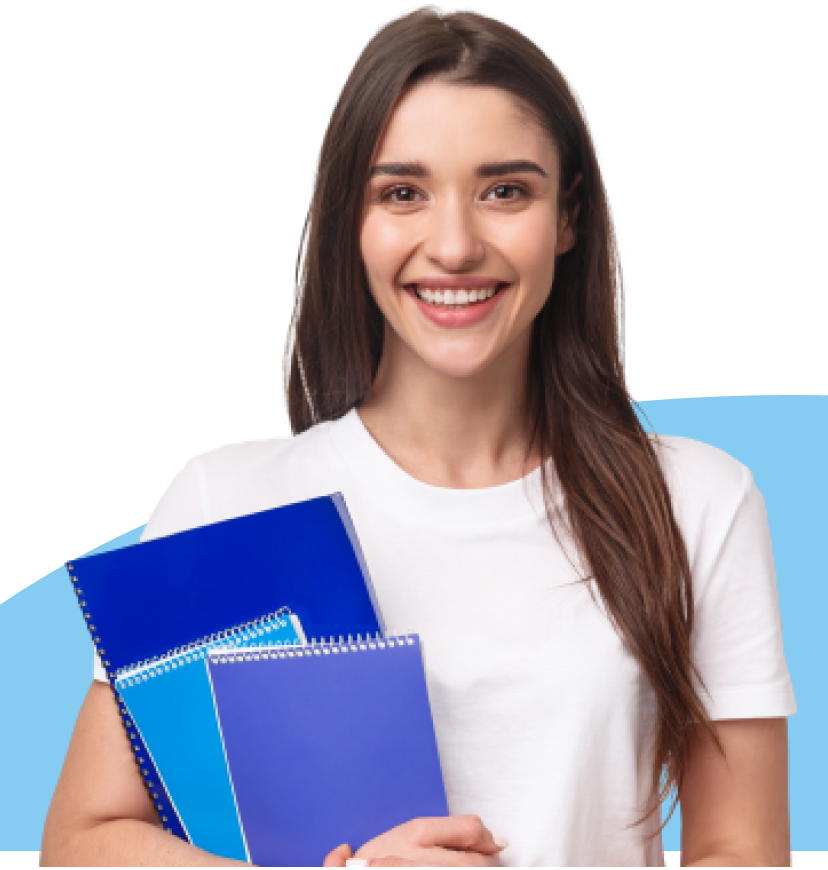
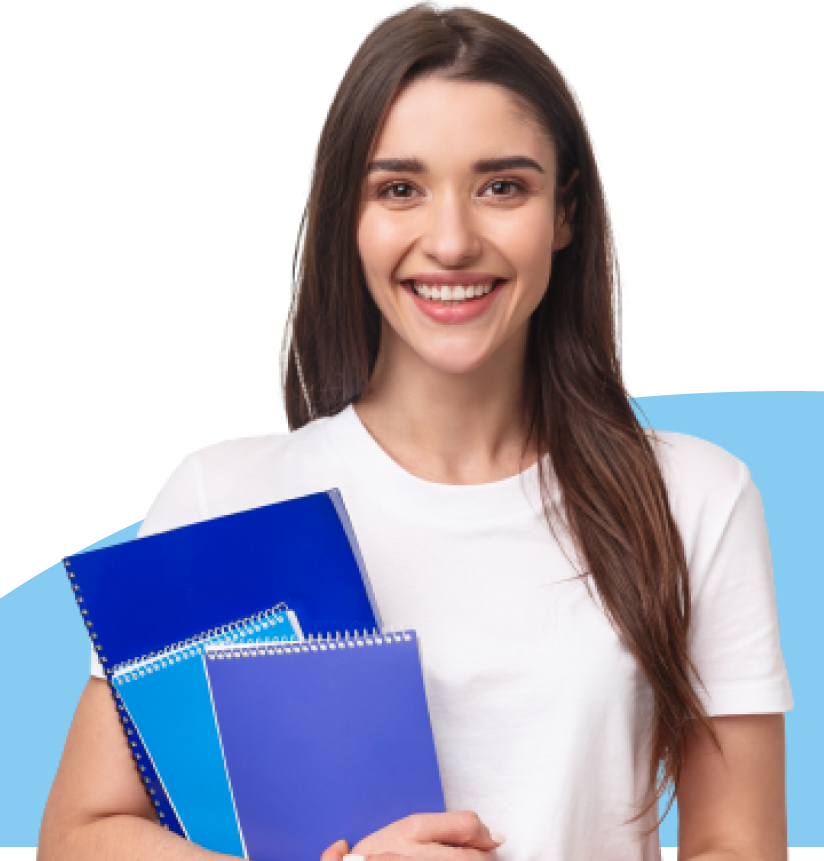
Fixed Hero section

diff --git a/app/page.module.scss b/app/page.module.scss
@@ -7,234 +7,9 @@
   min-height: 100vh;
 }
 
-.description {
-  display: inherit;
-  justify-content: inherit;
-  align-items: inherit;
-  font-size: 0.85rem;
-  max-width: var(--max-width);
-  width: 100%;
-  z-index: 2;
-  font-family: var(--font-mono);
-}
-
-.description a {
-  display: flex;
-  justify-content: center;
-  align-items: center;
-  gap: 0.5rem;
-}
-
-.description p {
-  position: relative;
-  margin: 0;
-  padding: 1rem;
-  background-color: rgba(var(--callout-rgb), 0.5);
-  border: 1px solid rgba(var(--callout-border-rgb), 0.3);
-  border-radius: var(--border-radius);
-}
-
-.code {
-  font-weight: 700;
-  font-family: var(--font-mono);
-}
-
-.grid {
-  display: grid;
-  grid-template-columns: repeat(4, minmax(25%, auto));
-  max-width: 100%;
-  width: var(--max-width);
-}
-
-.card {
-  padding: 1rem 1.2rem;
-  border-radius: var(--border-radius);
-  background: rgba(var(--card-rgb), 0);
-  border: 1px solid rgba(var(--card-border-rgb), 0);
-  transition: background 200ms, border 200ms;
-}
-
-.card span {
-  display: inline-block;
-  transition: transform 200ms;
-}
-
-.card h2 {
-  font-weight: 600;
-  margin-bottom: 0.7rem;
-}
-
-.card p {
-  margin: 0;
-  opacity: 0.6;
-  font-size: 0.9rem;
-  line-height: 1.5;
-  max-width: 30ch;
-  text-wrap: balance;
-}
-
-.center {
-  display: flex;
-  justify-content: center;
-  align-items: center;
-  position: relative;
-  padding: 4rem 0;
-}
-
-.center::before {
-  background: var(--secondary-glow);
-  border-radius: 50%;
-  width: 480px;
-  height: 360px;
-  margin-left: -400px;
-}
-
-.center::after {
-  background: var(--primary-glow);
-  width: 240px;
-  height: 180px;
-  z-index: -1;
-}
-
-.center::before,
-.center::after {
-  content: "";
-  left: 50%;
-  position: absolute;
-  filter: blur(45px);
-  transform: translateZ(0);
-}
-
-.logo {
-  position: relative;
-}
-
-/* Enable hover only on non-touch devices */
-@media (hover: hover) and (pointer: fine) {
-  .card:hover {
-    background: rgba(var(--card-rgb), 0.1);
-    border: 1px solid rgba(var(--card-border-rgb), 0.15);
+.hero {
+  img {
+    max-height: 500px;
   }
 
-  .card:hover span {
-    transform: translateX(4px);
-  }
-}
-
-@media (prefers-reduced-motion) {
-  .card:hover span {
-    transform: none;
-  }
-}
-
-/* Mobile */
-@media (max-width: 700px) {
-  .content {
-    padding: 4rem;
-  }
-
-  .grid {
-    grid-template-columns: 1fr;
-    margin-bottom: 120px;
-    max-width: 320px;
-    text-align: center;
-  }
-
-  .card {
-    padding: 1rem 2.5rem;
-  }
-
-  .card h2 {
-    margin-bottom: 0.5rem;
-  }
-
-  .center {
-    padding: 8rem 0 6rem;
-  }
-
-  .center::before {
-    transform: none;
-    height: 300px;
-  }
-
-  .description {
-    font-size: 0.8rem;
-  }
-
-  .description a {
-    padding: 1rem;
-  }
-
-  .description p,
-  .description div {
-    display: flex;
-    justify-content: center;
-    position: fixed;
-    width: 100%;
-  }
-
-  .description p {
-    align-items: center;
-    inset: 0 0 auto;
-    padding: 2rem 1rem 1.4rem;
-    border-radius: 0;
-    border: none;
-    border-bottom: 1px solid rgba(var(--callout-border-rgb), 0.25);
-    background: linear-gradient(to bottom,
-        rgba(var(--background-start-rgb), 1),
-        rgba(var(--callout-rgb), 0.5));
-    background-clip: padding-box;
-    backdrop-filter: blur(24px);
-  }
-
-  .description div {
-    align-items: flex-end;
-    pointer-events: none;
-    inset: auto 0 0;
-    padding: 2rem;
-    height: 200px;
-    background: linear-gradient(to bottom,
-        transparent 0%,
-        rgb(var(--background-end-rgb)) 40%);
-    z-index: 1;
-  }
-}
-
-/* Tablet and Smaller Desktop */
-@media (min-width: 701px) and (max-width: 1120px) {
-  .grid {
-    grid-template-columns: repeat(2, 50%);
-  }
-}
-
-@media (prefers-color-scheme: dark) {
-  .vercelLogo {
-    filter: invert(1);
-  }
-
-  .logo {
-    filter: invert(1) drop-shadow(0 0 0.3rem #ffffff70);
-  }
-}
-
-@keyframes rotate {
-  from {
-    transform: rotate(360deg);
-  }
-
-  to {
-    transform: rotate(0deg);
-  }
-}
-
-
-
-.loggedIn {
-  color: green !important;
-  background-color: yellow !important;
-}
-
-.loggedOut {
-  color: red !important;
-  background-color: purple !important;
 }

diff --git a/app/page.tsx b/app/page.tsx
@@ -3,7 +3,7 @@ import { useEffect } from "react";
 import Link from "next/link";
 import Image from "next/image";
 import routes from "@/routes";
-import hero from "@/img/homepage-section1.png"
+import hero from "@/img/homepage-section11.png"
 import styles from "@/app/page.module.scss";
 import Footer from "@/components/Footer/index";
 import Header from "@/components/Header/index";
@@ -13,8 +13,8 @@ export default function Home() {
   return <>
     <Header />
     <main className={styles.main}>
-      <section className="d-flex flex-column flex-lg-row gap-5" >
-        <div className="p-7vw">
+      <section className="w-100 d-flex flex-column flex-md-row align-items-md-center gap-3 gap-md-0" >
+        <div className="p-7vw col-md-7">
           <h1>Earn over <span className="text-secondary">$500</span> Monthly</h1>
           <h2>
             <div className="text-secondary">LEARN AND EARN</div>
@@ -22,8 +22,9 @@ export default function Home() {
           </h2>
           <p>Our online education platform is a fully functional learning place consisting of virtual class,e-library,testing/assessment modus and others.It is an interactive medium where students can engage the teachers just from the comfort of their homes.</p>
         </div>
-        <div><Image src={hero} alt="hero" width={500} height={500} /></div>
-
+        <div className={`w-100 ${styles.hero}`}>
+          <Image className="w-100" src={hero} alt="hero" />
+        </div>
       </section>
 
 

diff --git a/styles/_classes.scss b/styles/_classes.scss
@@ -54,9 +54,16 @@
   padding-bottom: 2vh;
 }
 
-.p-7vw {
+.ps-7vw {
   padding-left: 7vw;
+}
+
+.pe-7vw {
   padding-right: 7vw;
+}
+
+.p-7vw {
+  @extend .ps-7vw, .pe-7vw;
 }
 
 .p-2vh {
